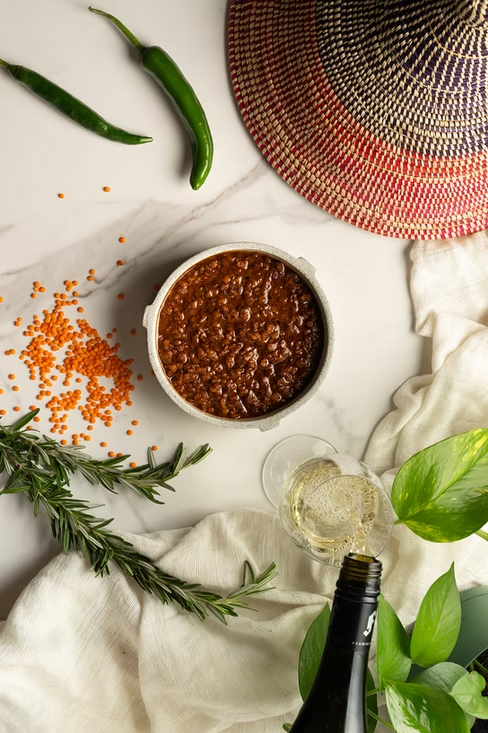
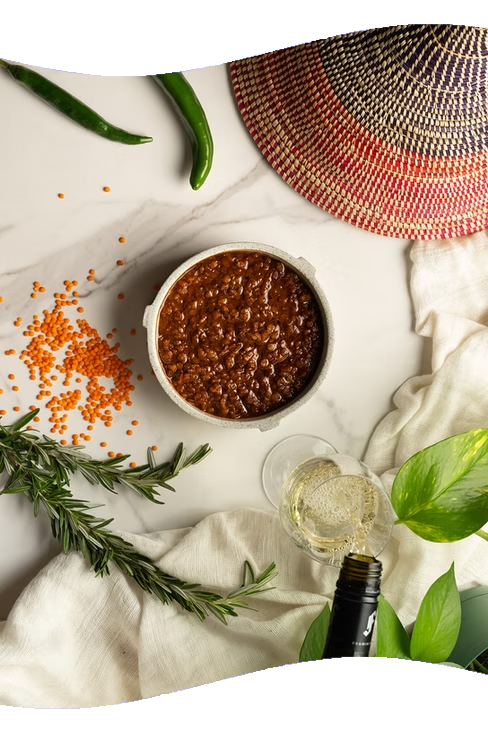
changing of intro part, including both image and texts

Changed region(s): [[0.0, 0.8704, 1.0, 1.0], [0.0, 0.0, 1.0, 0.1201]]

diff --git a/index.html b/index.html
@@ -26,7 +26,7 @@
 
   .site-header {
   position:absolute;
-  z-index: 1000;
+  z-index: 10;
   }
 
   .logo {
@@ -50,7 +50,19 @@
     font-size:16px;
   }
 
-  .slider-nav {
+  .slider-nav-left{
+    position: absolute;
+    top: 50%;
+    left: -20px;
+    transform: translateY(-50%);
+    background-image: url(arrow.png);
+    background-size: cover;
+    width: 100px;
+    height: 100px;
+    border-radius: 50%;
+  }
+
+  .slider-nav-right{
     position: absolute;
     top: 50%;
     right: -20px;
@@ -93,7 +105,7 @@
     transform: translateX(-50%);
     display: flex;
     gap: 8px;
-    z-index: 10;
+    z-index: 9;
   }
 
   .dot {
@@ -122,6 +134,7 @@
     padding: 10px;
     gap: 20px;
     transition: right 0.8s ease;
+    z-index:1000;
   }
 
   nav.sidebar:hover {
@@ -152,7 +165,7 @@
     align-items: center;
     justify-content: center;
     cursor: pointer;
-    z-index: 1001; 
+    z-index: 100; 
   }
 
   nav.sidebar .sidebar-toggle img.arrow-icon {
@@ -187,7 +200,8 @@
   align-items: center;
   padding: 10px 0;
   box-shadow: 0 -2px 5px rgba(0, 0, 0, 0.1);
-  z-index: 1000;
+  z-index: 10;
+  transform: translateY(40px);
 }
 
 .bottom-btn {
@@ -203,49 +217,65 @@
   object-fit: contain;
 }
 
+.divider {
+  position: relative;
+  z-index: 0;
+}
+
 .intro-section {
+  display: flex;
   width: 100%;
   background-color: #62acbc;
-  padding: 60px 0;
+  padding:-100px;
   box-sizing: border-box;
 }
 
-.intro-content {
-  max-width: 1200px;
-  margin: 0 auto;
+.intro-left {
+  flex:1;
   display: flex;
+  justify-content: center;
   align-items: center;
-  gap: 40px;
-  padding: 0 20px;
-  flex-wrap: wrap;
+  padding: 60px 20px;
 }
 
 .intro-text {
-  flex: 1;
-  min-width: 280px;
+  text-align: center;
+  line-height: 1.8;
 }
 
 .intro-text h2 {
-  font-size: 32px;
-  margin-bottom: 15px;
-  color: #222;
+  font-family:'Georgia';
+  font-size: 48px;
+  font-weight: bold;
+  margin-bottom: 20px;
+  color: #ffffff;
+}
+
+.intro-text h3 {
+  font-family:'Georgia';
+  font-size: 28px;
+  font-weight: bold;
+  margin-bottom: 30px;
+  color: #ffffff;
 }
 
 .intro-text p {
+  font-family:'Georgia';
   font-size: 18px;
-  line-height: 1.6;
-  color: #555;
+  line-height: 0.3;
+  margin-bottom: 25px;
+  color: #ffffff;
 }
 
-.intro-image {
+.intro-right {
   flex: 1;
-  min-width: 300px;
 }
 
-.intro-image img {
+.intro-img {
   width: 100%;
-  height: auto;
-  border-radius: 8px;
+  height: 100%;
+  object-fit: cover;
+  display: block;
 }
 
 </style>
@@ -268,7 +298,8 @@
       <img src="scrolling pic2.png" class="slider-image">
       <img src="scrolling pic3.png" class="slider-image">
     </div>
-    <div class="slider-nav"></div>
+    <div class="slider-nav-left"></div>
+    <div class="slider-nav-right"></div>
     <div class="slider-indicators">
       <span class="dot active"></span>
       <span class="dot"></span>
@@ -292,7 +323,12 @@
 
     goToSlide(0);
 
-    document.querySelector('.slider-nav').addEventListener('click', () => {
+    document.querySelector('.slider-nav-left').addEventListener('click', () => {
+    currentIndex = (currentIndex - 1 + images.length) % images.length;
+    goToSlide(currentIndex);
+    });
+
+    document.querySelector('.slider-nav-right').addEventListener('click', () => {
       currentIndex = (currentIndex + 1) % images.length;
       goToSlide(currentIndex);
     });
@@ -378,19 +414,23 @@
 </div>
 
 <section class="intro-section">
-  <div class="intro-content">
+  <div class="intro-left">
     <div class="intro-text">
       <h2>Vegetarian Dishes</h2>
-      <h2>Nothin' like you've had before</h2>
+      <h3>Nothin' like you've had before</h3>
+    
       <p>Humbly yet proudly, we claim to have the most</p>
-      <p>exquisite mouth-watering dishes in the vegitarian</p>
+      <p>exquisite mouth-watering dishes in the vegetarian</p>
+      <p>realm.</p>
+    
       <p>Most of our veggie dishes are cooked with onions</p>
-      <p>that are slowly carmelised in olive oil. Garlic and</p>
+      <p>that are slowly caramelised in olive oil. Garlic and</p>
       <p>ginger are a must.</p>
     </div>
-    <div class="intro-img">
-      <img src="Intro img.png" alt="Ethiopian Dish">
-    </div>
+  </div>
+
+  <div class="intro-right">
+    <img src="Intro img.png" alt="Ethiopian Dish" class="intro-img">
   </div>
 </section>
 
